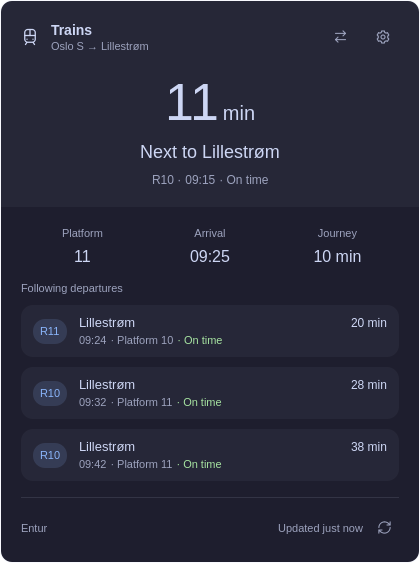
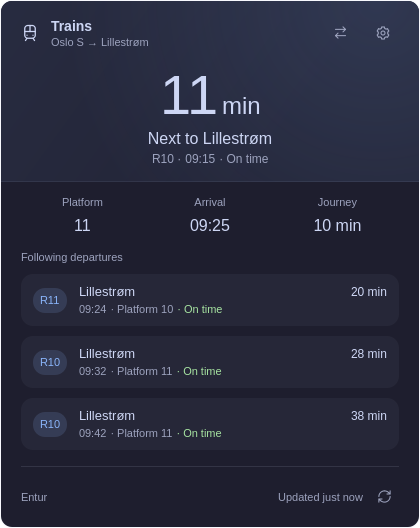
docs(train): refresh README and screenshot for the Rust helper and kit 0.5.1
Name the x86_64 instructions Graviola needs (AVX2, BMI2, ADX), the
Switch direction button in Settings, the cache directory left after
removal and that the helper runs once per check; drop the duplicated
kit/ note. preview.png is re-rendered with kit 0.5.1.

diff --git a/README.md b/README.md
@@ -9,8 +9,9 @@ Direct trains in Norway, with live departures, delays, and service notices.
 Requires Omarchy 4.5 (also loads on Omarchy 4.0), GNU coreutils, and an x86_64
 or aarch64 CPU: the plugin ships a prebuilt static helper for both, and on other
 CPUs the widget says the helper isn't available. HTTPS to Entur needs AES and
-carry-less multiply instructions (x86_64: Intel Broadwell / AMD Zen or newer;
-aarch64: the ARMv8 crypto extensions, e.g. Raspberry Pi 5 but not Pi 4);
+carry-less multiply instructions (x86_64: also AVX2, BMI2 and ADX, so Intel
+Broadwell / AMD Zen or newer; aarch64: the ARMv8 crypto extensions, e.g.
+Raspberry Pi 5 but not Pi 4);
 without them the widget says HTTPS isn't supported on this CPU. No API key is
 needed.
 
@@ -23,7 +24,8 @@ omarchy plugin add https://github.com/foamrider/foamy-train.git --enable
 1. Open **Settings** (the cog, `s` in the popup, or right-click the bar widget)
    and search for your **From** and **To** stations.
 2. Select both results. Settings save automatically.
-3. Use the arrows beside the cog to switch direction.
+3. Use the arrows beside the cog (or **Switch direction** in Settings) to
+   switch direction.
 
 Left-click opens departures. In the popup, arrows or `hjkl` move the cursor,
 Enter or Space expands a service notice or presses the highlighted button,
@@ -55,6 +57,9 @@ Departures come from Entur's journey planner. To keep requests light:
   IPC target (answered by Omarchy's lock and by Foamy Lock); opening the
   popup or pressing Refresh always fetches.
 - One request runs per shell, however many monitors show the bar.
+- Each check runs the helper once; it prints one reply and exits, so nothing
+  stays running between checks. A reply younger than 30 seconds is served
+  from the cache unless you press Refresh.
 - After a connection comes up, requests wait briefly for DNS and routes.
   Temporary failures retry up to three times with increasing delays. Cached
   departures stay visible offline, marked as cached once two polls in a row
@@ -78,8 +83,8 @@ location permission is needed.
 omarchy plugin remove foamy.train
 ```
 
-Removal stops departure requests. Cached departure data remains on disk;
-there is no Entur account or subscription to cancel.
+Removal stops departure requests. Cached departure data remains in
+`~/.cache/foamy.train/`; there is no Entur account or subscription to cancel.
 
 Omarchy manages the plugin entry in `shell.json`. Packages and data outside
 the plugin directory are retained unless you remove them separately.
@@ -96,8 +101,6 @@ Norwegian catalogs; other languages fall back to English). Omarchy 4.0 displays
 the plugin in English.
 
 ## Development
-
-`kit/` holds shared components copied from [foamy-kit](https://github.com/foamrider/foamy-kit); edit them there, not here.
 
 Shared foamy components live in `kit/` (copied from
 [foamy-kit](https://github.com/foamrider/foamy-kit); never edit them here).
